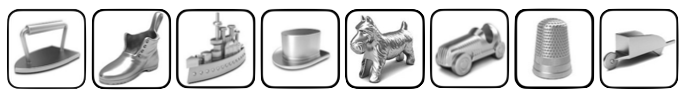
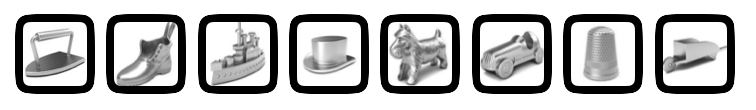
stable; adds dice bag

diff --git a/front-end/src/components/Monopoly.vue b/front-end/src/components/Monopoly.vue
@@ -1,6 +1,7 @@
 <template>
   <div class="monopoly">
     <input @blur="setUserId" ref="userId" type="text" :class="[(userId.length > 0) ? 'user-id-set' : 'user-id-unset']" />
+    <button @click="rollDice">{{diceValues.join(', ')}}</button>
     <div id="game-board">
     </div>
   </div>
@@ -8,6 +9,7 @@
 
 <script>
 const _ = require('lodash');
+const d = require('dice-bag')
 
 window.drawGamePiece = (gp) => {
   let gamePieceClass = `game-piece-${gp.type}`;
@@ -65,6 +67,7 @@ export default {
       msg: "Let's play Monopoly!", 
       index: {}, 
       userId: '', 
+			diceValues: ["Roll Dice"],
     }
   }, 
   sockets:{
@@ -73,6 +76,10 @@ export default {
     },
     customEmit: function(val){
       console.log('this method was fired by the socket server. eg: io.emit("customEmit", data)')
+    }, 
+    rollDice: function(data){
+			console.log(['socket:r:rollDice', data]);
+			this.diceValues = data.values;
     }, 
     renderGameBoard: function(data){
       console.log(["data:", data])
@@ -83,6 +90,22 @@ export default {
     }, 
   },
   methods: {
+		rollDice: function() {
+      Socket.emit('rollDice', 'xxx')
+
+			// let speedDie = d(1,6);
+
+			// switch(speedDie) {
+			// 	case 4:
+			// 	case 5:
+			// 		speedDie = "Mr. Monopoly"
+			// 		break;
+			// 	case 6:
+			// 		speedDie = "Bus"
+			// 		break;
+			// }
+			// this.diceValues = [d(1,6), d(1,6), speedDie];
+		},
     setUserId: function(){
       // console.log(['this.$refs.userId', this.$refs.userId.value]);
       this.userId = this.$refs.userId.value;
@@ -231,8 +254,8 @@ export default {
 }
 
 .game-piece-player-token {
-    width: 41px;
-    height: 41px;
+    width: 40px;
+    height: 40px;
     background-image: url("../assets/monopoly-player-pieces.png");
     background-size: auto 49px;
     background-repeat: no-repeat;
@@ -241,11 +264,11 @@ export default {
 }
 
 .game-piece-player-token-iron {
-    background-position: -3px -4px;
+    background-position: -5px -4px;
 }
 
 .game-piece-player-token-shoe {
-    background-position: -46px -4px;
+    background-position: -45px -4px;
 }
 
 .game-piece-player-token-ship {
@@ -253,23 +276,23 @@ export default {
 }
 
 .game-piece-player-token-hat {
-    background-position: -130px -4px;
+    background-position: -128px -4px;
 }
 
 .game-piece-player-token-dog {
-    background-position: -172px -4px;
+    background-position: -168px -4px;
 }
 
 .game-piece-player-token-car {
-    background-position: -214px -4px;
+    background-position: -208px -4px;
 }
 
 .game-piece-player-token-thimble {
-    background-position: -256px -4px;
+    background-position: -248px -4px;
 }
 
 .game-piece-player-token-wheel-barrow {
-    background-position: -298px -4px;
+    background-position: -288px -4px;
 }
 
 .monopoly-player-piece-iron {

diff --git a/back-end/app.js b/back-end/app.js
@@ -2,9 +2,11 @@ const http = require('http');
 const logger = require('morgan');
 const _ = require('lodash');
 const uuidV1 = require('uuid/v1');
+const diceBag = require('dice-bag')
 
 var game = {
   index: {}, 
+	diceValues: [],
 }
 
 var initGameBoard = (cb) => {
@@ -63,6 +65,25 @@ var removeGamePiece = (options={uuid: null}, cb) => {
   }
 }
 
+var rollDice = (cb) => {
+	let speedDie = diceBag(1,6);
+
+	switch(speedDie) {
+		case 4:
+		case 5:
+			speedDie = "Mr. Monopoly"
+			break;
+		case 6:
+			speedDie = "Bus"
+			break;
+	}
+	game.diceValues = [diceBag(1,6), diceBag(1,6), speedDie];
+
+  if (!_.isNil(cb)) {
+    cb(game.diceValues);
+  }
+}
+
 var server = require('http').createServer();
 var io  = require('socket.io')(server, { path: '/monopoly/socket.io'}).listen(8085);
 // var io = require('socket.io').listen(8085);
@@ -107,6 +128,7 @@ io
     initGameBoard((index) => {
       console.log(["game.index:", game.index])
       io.emit('renderGameBoard', {userId, index: game.index});
+      io.emit('rollDice', {userId, values: game.diceValues});
     })
   });
   socket.on('placeGamePiece', function(userId, gp){
@@ -119,6 +141,12 @@ io
     removeGamePiece(gp, (index, gp) => {
       console.log(["game.index:", game.index])
       io.emit('renderGameBoard', {userId, index: game.index, remove: [gp.uuid]});
+    })
+  });
+  socket.on('rollDice', function(userId){
+    rollDice((values) => {
+      console.log(["rollDice:", userId, game.diceValues])
+      io.emit('rollDice', {userId, values: game.diceValues});
     })
   });
 
